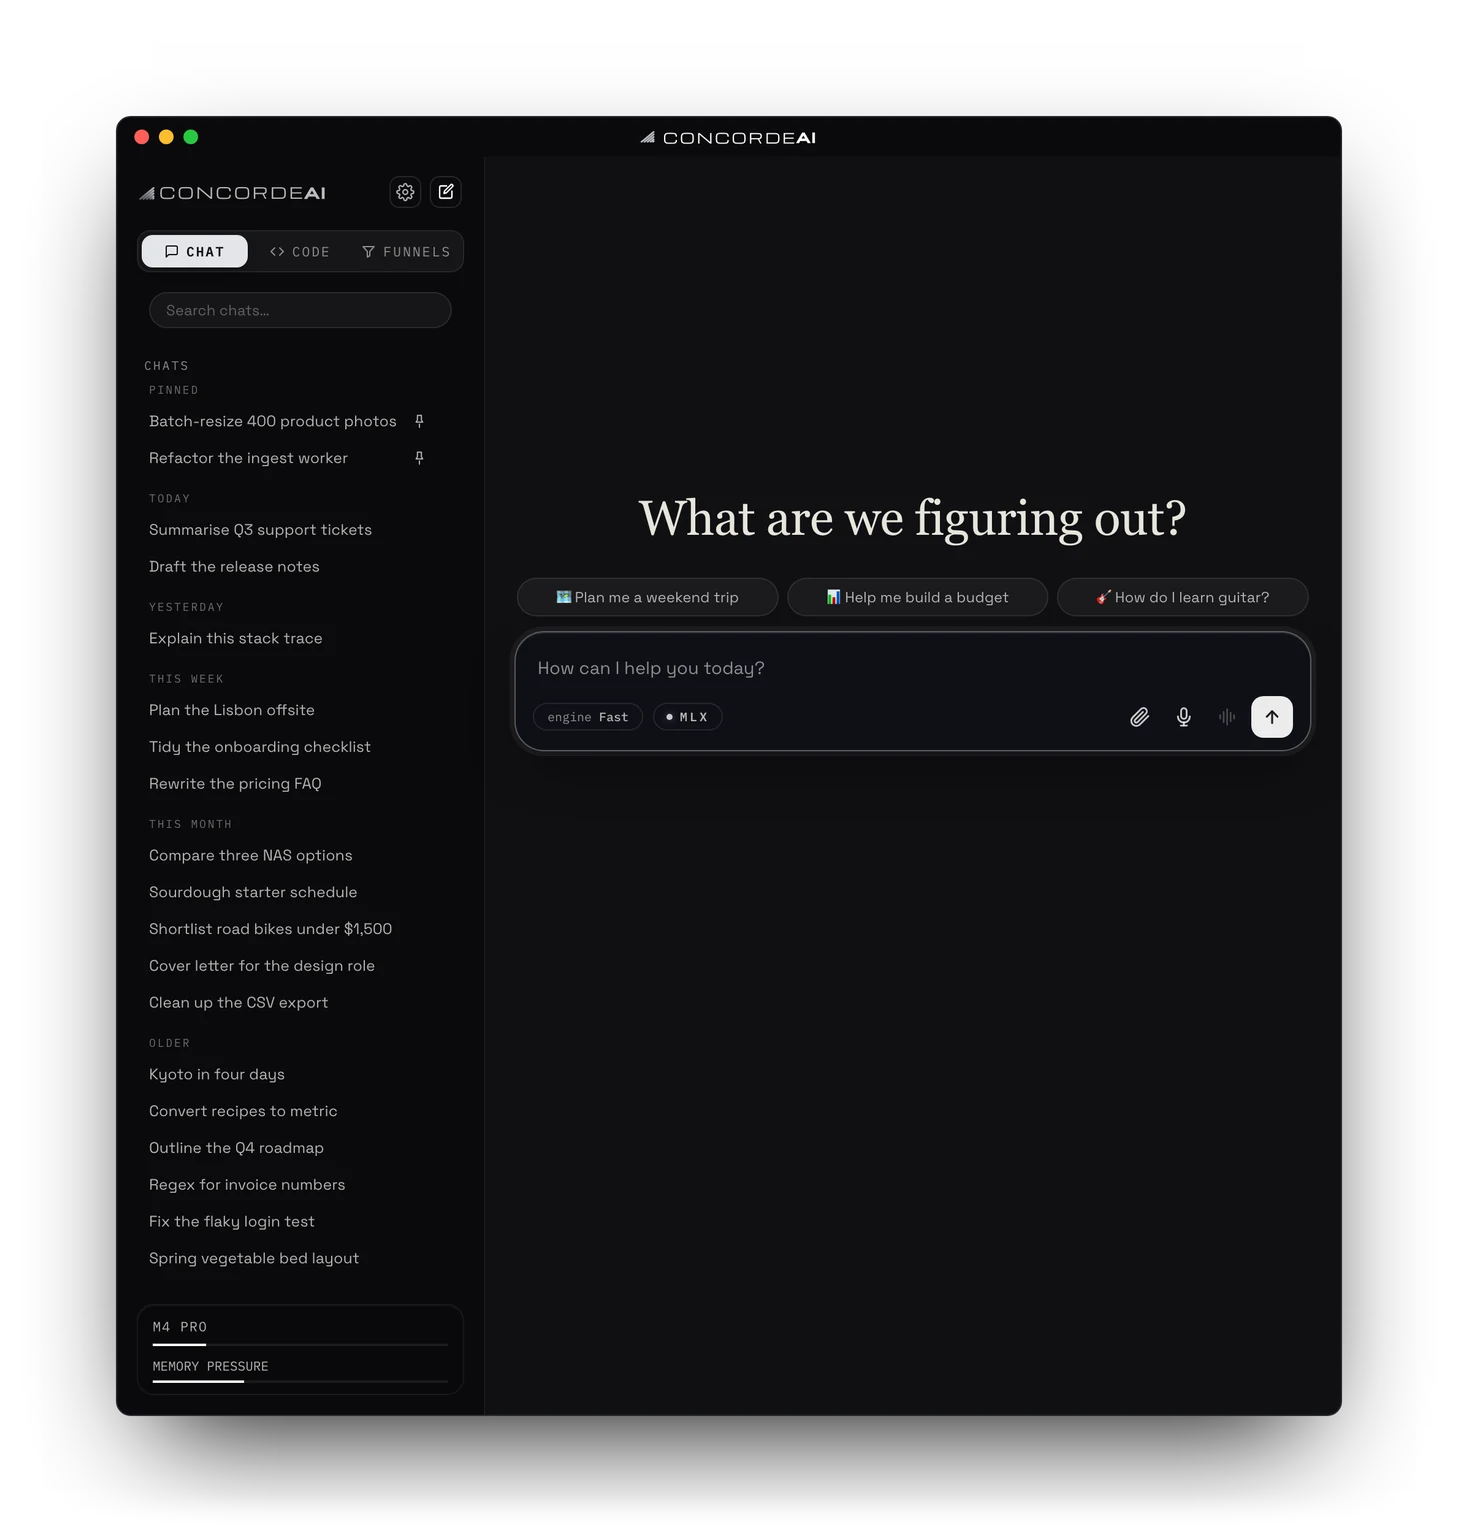
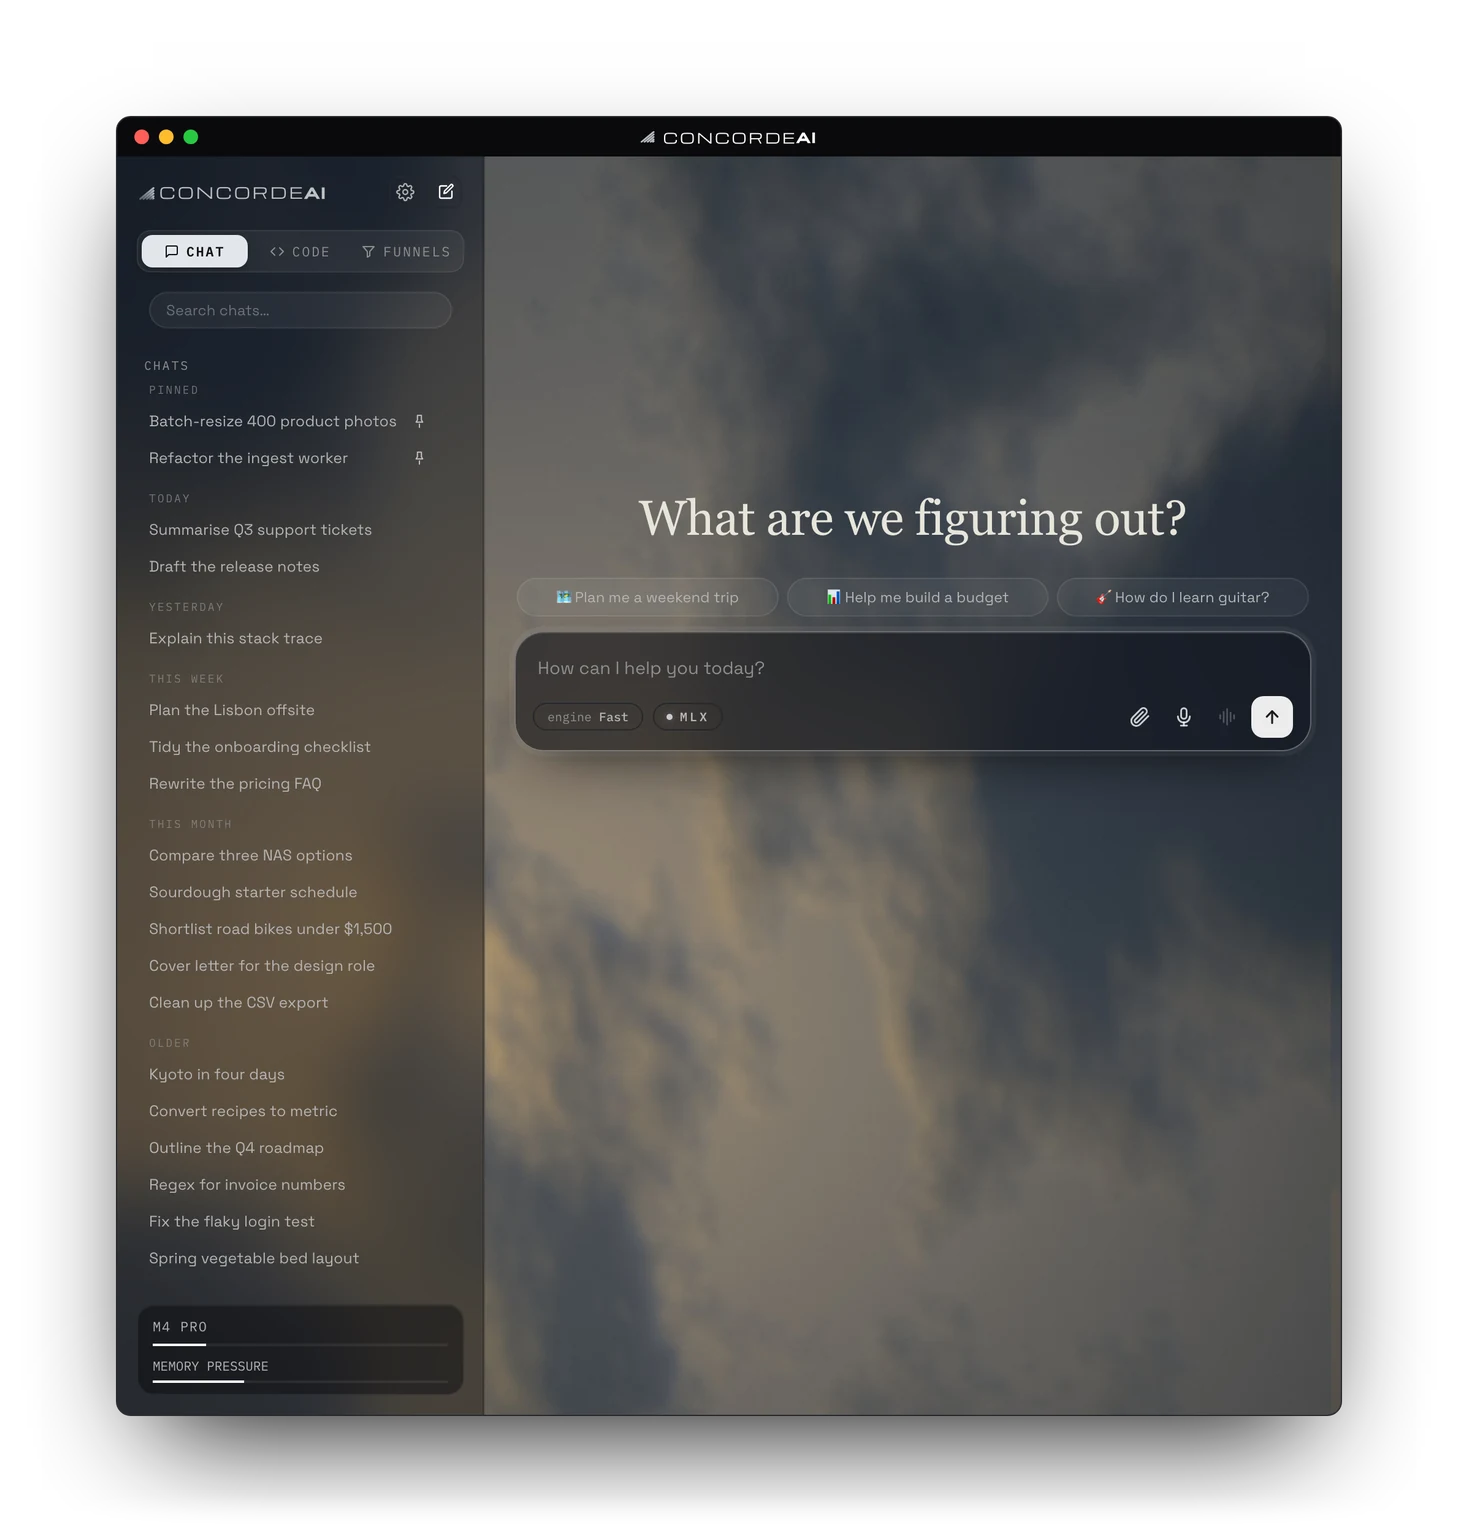
The ConcordeAI window sits on a cloud backdrop, like the app with effects on
With visual effects on, the real app shows a moving aerial behind a frosted
sidebar and message box. The window mock now has those: the sidebar and
composer take the app's glass (translucent panel, 26px blur) over a still.
The still is ours, drawn from noise by tools/make-backdrop.py (an aerial
over clouds at dusk, cool shade, warm light on the tops): the app's own
clips are Apple's, so none is used. Saving a photo you have the rights to
over tools/windows/backdrop-clouds.jpg swaps it.

diff --git a/tools/windows/ai-window.html b/tools/windows/ai-window.html
@@ -73,14 +73,20 @@ body{
 /* the page's <body> (16164) */
 .app{
   flex:1;min-height:0;display:flex;
-  background:var(--bg);color:var(--text);font-family:var(--sans);font-size:15px;
+  /* the app plays an Apple TV aerial behind the window; this is a still of
+     our own (tools/make-backdrop.py), under the same frosted glass */
+  background:var(--panel) url(backdrop-clouds.jpg) center / cover no-repeat;
+  color:var(--text);font-family:var(--sans);font-size:15px;
 }
 
-/* ---------- sidebar (16205; body.novideo 16217) ---------- */
+/* ---------- sidebar (28858; the visual-effects-on glass) ---------- */
 #sidebar{
   position:relative;z-index:1;
   width:300px;min-width:300px;height:100%;
-  background:var(--panel);
+  /* real frosted glass (28861): ~34% panel, heavy blur */
+  background:rgba(6,7,10,.34);
+  -webkit-backdrop-filter:blur(26px) saturate(1.45);
+          backdrop-filter:blur(26px) saturate(1.45);
   border-right:1px solid rgba(255,255,255,.07);
   box-shadow:inset -1px 0 0 rgba(0,0,0,.25);
   display:flex;flex-direction:column;padding:16px 16px;gap:8px;
@@ -218,6 +224,8 @@ body{
 #composer{
   max-width:780px;margin:0 auto;
   background:rgba(15,17,23,.60);
+  -webkit-backdrop-filter:blur(26px) saturate(1.4);
+          backdrop-filter:blur(26px) saturate(1.4);
   /* focused, as at launch (input.focus(), 23270): the :focus-within
      look of 17643 */
   border:1px solid rgba(255,255,255,.32);

diff --git a/tools/make-backdrop.py b/tools/make-backdrop.py
@@ -1,0 +1,101 @@
+#!/usr/bin/env python3
+"""The ConcordeAI window's backdrop: tools/windows/backdrop-clouds.jpg.
+
+The real app plays Apple TV aerial clips behind its window (Settings >
+Enable visual effects). Those clips are Apple's and each Mac fetches them
+from Apple; they are not ours to put on a public site. This draws a still
+in the same spirit instead: an aerial view over clouds at dusk, cool blue-
+grey shade, warm light on the cloud tops, made only from noise (fractal
+Brownian motion, domain-warped, lit from the lower left) — nothing is
+copied from anywhere.
+
+    python3 tools/make-backdrop.py            # rewrites tools/windows/backdrop-clouds.jpg
+
+Sized for the window mock (1000x1060 CSS px at 2x). To use a different still
+(a photo you have the rights to), save it over that file: the mock just
+covers the window with it.
+"""
+import os
+import numpy as np
+from PIL import Image
+
+W, H = 2000, 2120
+SEED = 1969
+OUT = os.path.join(os.path.dirname(os.path.abspath(__file__)), "windows", "backdrop-clouds.jpg")
+
+
+def fbm(rng, w, h, octaves, base, persistence=0.55, stretch=1.0):
+    """Fractal noise in 0..1: each octave is random values on a coarse grid,
+    smoothly upsampled, summed with falling amplitude."""
+    total = np.zeros((h, w), np.float32)
+    amp, norm = 1.0, 0.0
+    for o in range(octaves):
+        gw = max(2, int(base * (2 ** o) * stretch)) + 1
+        gh = max(2, int(base * (2 ** o))) + 1
+        g = rng.random((gh, gw)).astype(np.float32)
+        img = Image.fromarray((g * 255).astype(np.uint8)).resize((w, h), Image.BICUBIC)
+        total += amp * (np.asarray(img, np.float32) / 255.0)
+        norm += amp
+        amp *= persistence
+    return total / norm
+
+
+def smoothstep(a, b, x):
+    t = np.clip((x - a) / (b - a), 0, 1)
+    return t * t * (3 - 2 * t)
+
+
+def blur(a, radius):
+    """Gaussian blur of a 0..1 float array (through 8 bits, plenty for light)."""
+    from PIL import ImageFilter
+    im = Image.fromarray(np.clip(a * 255, 0, 255).astype(np.uint8))
+    return np.asarray(im.filter(ImageFilter.GaussianBlur(radius)), np.float32) / 255.0
+
+
+def main():
+    rng = np.random.default_rng(SEED)
+    warp_x = fbm(rng, W, H, 3, 2)
+    warp_y = fbm(rng, W, H, 3, 2)
+    yy, xx = np.mgrid[0:H, 0:W].astype(np.float32)
+    # big soft banks of cloud, a little wider than tall, domain-warped so they billow
+    base = fbm(rng, W, H, 6, 2, 0.5, stretch=1.5)
+    shift = 110.0
+    xs = np.clip(xx + (warp_x - 0.5) * 2 * shift, 0, W - 1).astype(int)
+    ys = np.clip(yy + (warp_y - 0.5) * 2 * shift, 0, H - 1).astype(int)
+    dens = smoothstep(0.30, 0.66, base[ys, xs])
+    puff = fbm(rng, W, H, 6, 9, 0.58)                       # cauliflower texture, kept gentle
+    dens = np.clip(dens * (0.70 + 0.62 * puff), 0, 1)
+    dens = blur(dens, 2)
+
+    # soft light from the lower left: where a cloud rises toward it, it is lit
+    soft = blur(dens, 9)
+    toward = np.roll(np.roll(soft, 14, axis=0), -16, axis=1)
+    lit = np.clip((soft - toward) * 4.2 + 0.46, 0, 1)
+    lit = lit * smoothstep(0.05, 0.45, dens)
+
+    bloom = np.exp(-(((xx - 0.20 * W) / (0.55 * W)) ** 2 + ((yy - 0.68 * H) / (0.38 * H)) ** 2))
+
+    t = (yy / H)[..., None]
+    sky = np.array([54, 72, 96], np.float32) * (1 - t) + np.array([96, 112, 128], np.float32) * t
+
+    body = np.array([142, 150, 160], np.float32)            # cloud in diffuse light: pale blue-grey
+    shade = np.array([84, 96, 112], np.float32)
+    warm = np.array([255, 214, 150], np.float32)
+    thick = (dens ** 1.4)[..., None]
+    cloud = shade * (1 - thick) + body * thick
+    cloud = cloud * (1 - lit[..., None] * 0.75 * (0.3 + 0.9 * bloom[..., None])) \
+        + warm * lit[..., None] * 0.75 * (0.3 + 0.9 * bloom[..., None])
+
+    img = sky * (1 - dens[..., None]) + cloud * dens[..., None]
+    img = img + np.array([80, 46, 10], np.float32) * (bloom[..., None] * 0.30)
+    img = img * (0.62 + 0.12 * bloom[..., None])            # the app dims its backdrop
+    vig = 1 - 0.30 * (((xx / W - 0.5) * 1.5) ** 2 + ((yy / H - 0.5) * 1.1) ** 2)
+    img = img * np.clip(vig, 0.62, 1)[..., None]
+    grain = rng.normal(0, 1.3, (H, W, 1)).astype(np.float32)
+    out = np.clip(img + grain, 0, 255).astype(np.uint8)
+    Image.fromarray(out).save(OUT, quality=88, optimize=True, progressive=True)
+    print("wrote %s (%dx%d, %d KB)" % (OUT, W, H, os.path.getsize(OUT) // 1024))
+
+
+if __name__ == "__main__":
+    main()

diff --git a/tools/README.md b/tools/README.md
@@ -303,8 +303,12 @@ the apps' own UIs, rebuilt as static HTML from each app's real page (its
 markup and its own CSS rules, with fake data) rather than screenshots of
 whatever happened to be on screen. They are HTML so they stay crisp at any
 size and can be restaged without re-shooting. The AI window is the opening
-screen of a new chat (greeting, starter chips, message box; visual effects
-off, because with them on the backdrop is Apple's aerial footage). The VPN
+screen of a new chat (greeting, starter chips, message box) with visual
+effects on: the sidebar and message box are the app's frosted glass over a
+backdrop. The real app plays Apple TV aerial clips there; those are Apple's,
+so the site's is a cloudscape drawn from noise by `make-backdrop.py` into
+`windows/backdrop-clouds.jpg` (a photo you have the rights to can be saved
+over that file). The VPN
 window is the main window as ConcordeVPN 1.4 draws it, 460x856: connected
 through New York, Balanced, with the speed and route cards.
 ConcordeGo is a website, so its window is a plain browser frame (the address
